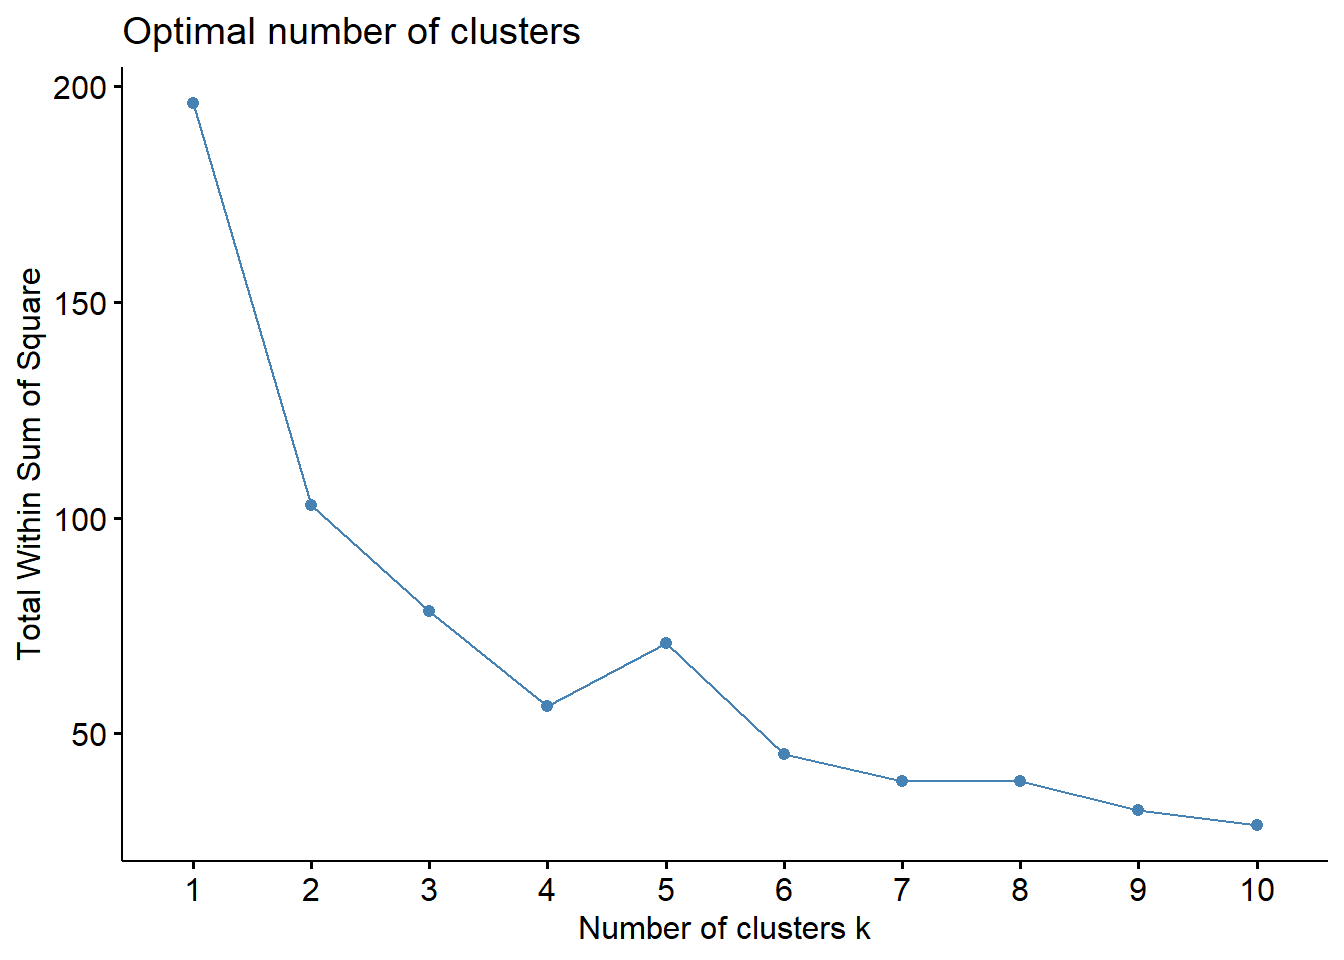
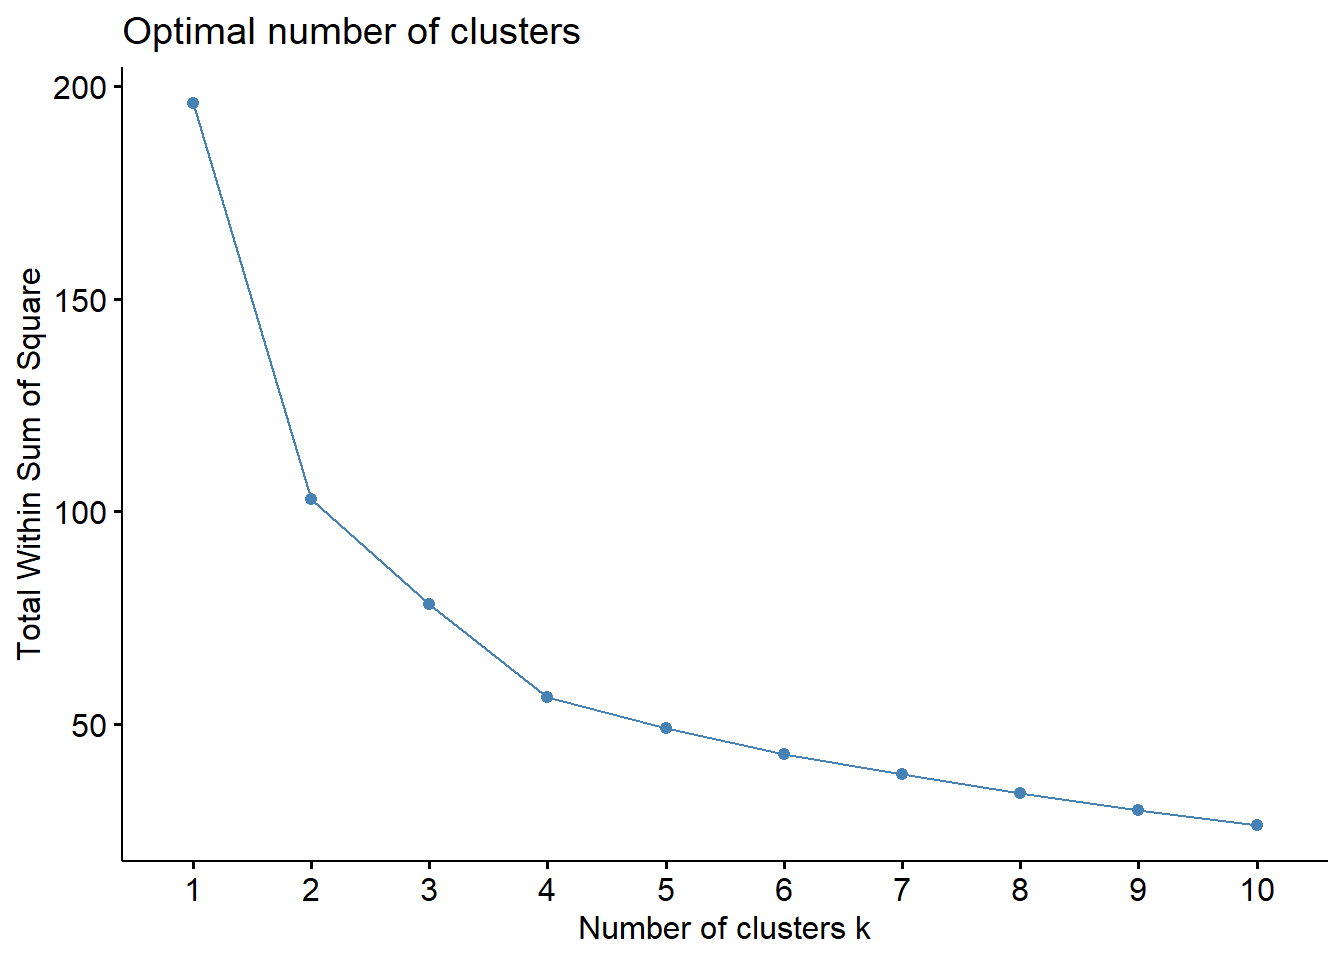
DMML_lab9

diff --git a/docs/exercise-1-usarrests.html b/docs/exercise-1-usarrests.html
@@ -285,9 +285,9 @@ Solution
 <span id="cb12-10"><a href="exercise-1-usarrests.html#cb12-10" aria-hidden="true" tabindex="-1"></a>     <span class="at">xlab=</span><span class="st">&quot;Number of clusters&quot;</span>, <span class="at">ylab=</span><span class="st">&quot;Within-cluster sum of squares&quot;</span>,</span>
 <span id="cb12-11"><a href="exercise-1-usarrests.html#cb12-11" aria-hidden="true" tabindex="-1"></a>     <span class="at">main=</span><span class="st">&quot;Assessing the Optimal Number of Clusters with the Elbow Method&quot;</span>)</span></code></pre></div>
 <p><img src="main_files/figure-html/unnamed-chunk-12-1.png" width="576" style="display: block; margin: auto;" /></p>
-<p>In this plot, it is slightly hard to find a clear cut-off point.</p>
-<!-- Take advantage  -->
-<div class="sourceCode" id="cb13"><pre class="sourceCode r"><code class="sourceCode r"><span id="cb13-1"><a href="exercise-1-usarrests.html#cb13-1" aria-hidden="true" tabindex="-1"></a>ggplot_fviz_wss <span class="ot">&lt;-</span><span class="fu">fviz_nbclust</span>(USArrests, <span class="at">FUN=</span>kmeans, <span class="at">method =</span> <span class="st">&quot;wss&quot;</span>)</span>
+<p>In this plot, it is slightly hard to find a clear cut-off point. We may choose two clusters or four clusters as it seems that the reduction in within-cluster sum of squares becomes slower.</p>
+<p>Alternatively, we can again use the <code>fviz_nbclust</code> function by setting the method to <code>wss</code>.</p>
+<div class="sourceCode" id="cb13"><pre class="sourceCode r"><code class="sourceCode r"><span id="cb13-1"><a href="exercise-1-usarrests.html#cb13-1" aria-hidden="true" tabindex="-1"></a>ggplot_fviz_wss <span class="ot">&lt;-</span> <span class="fu">fviz_nbclust</span>(USArrests, <span class="at">FUN=</span>kmeans, <span class="at">nstart=</span><span class="dv">100</span>, <span class="at">method =</span> <span class="st">&quot;wss&quot;</span>)</span>
 <span id="cb13-2"><a href="exercise-1-usarrests.html#cb13-2" aria-hidden="true" tabindex="-1"></a>ggplot_fviz_wss <span class="co">#total within sum of square; same as the Elbow method, look at the knee</span></span></code></pre></div>
 <p><img src="main_files/figure-html/unnamed-chunk-13-1.png" width="672" /></p>
 </div>
